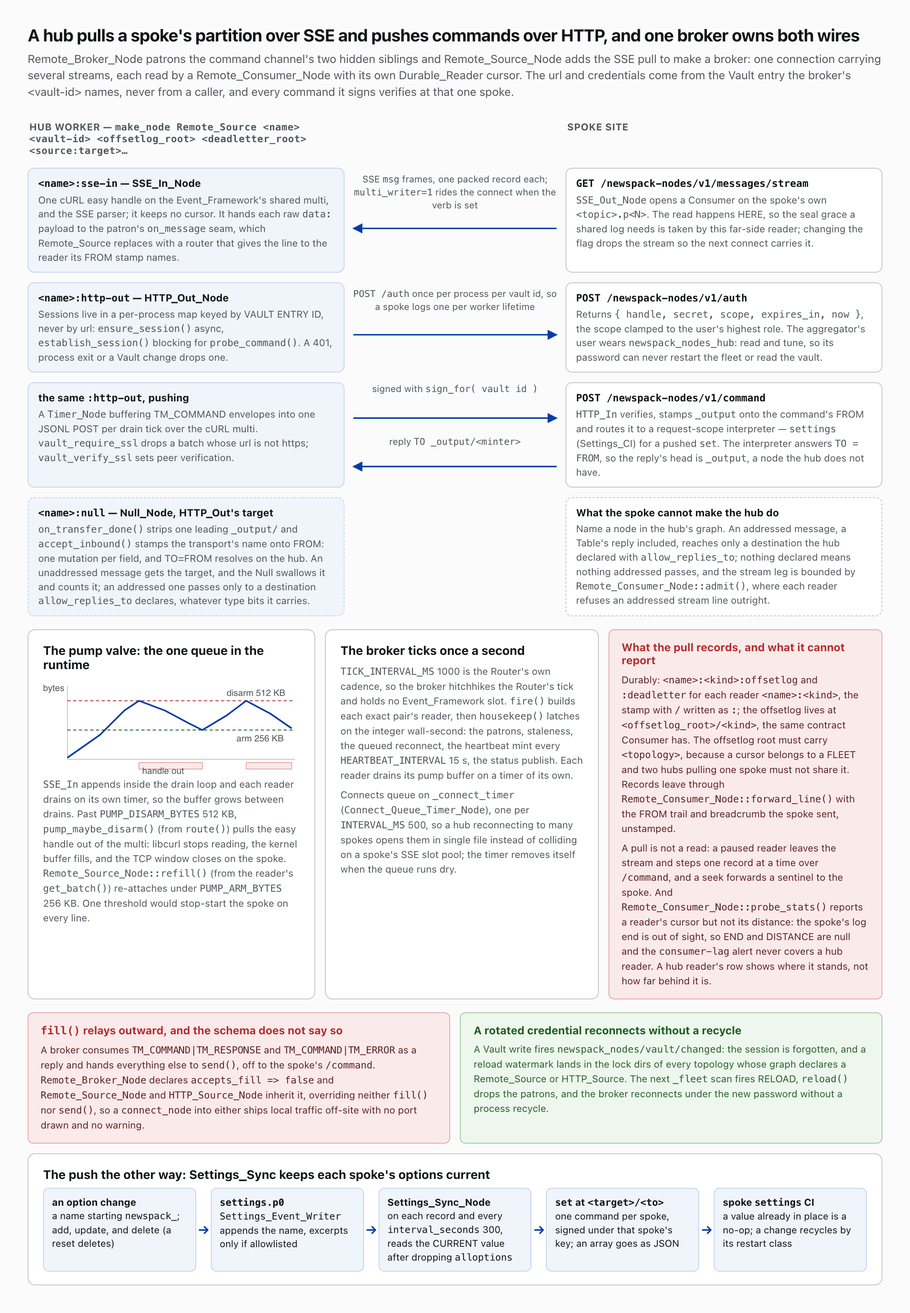
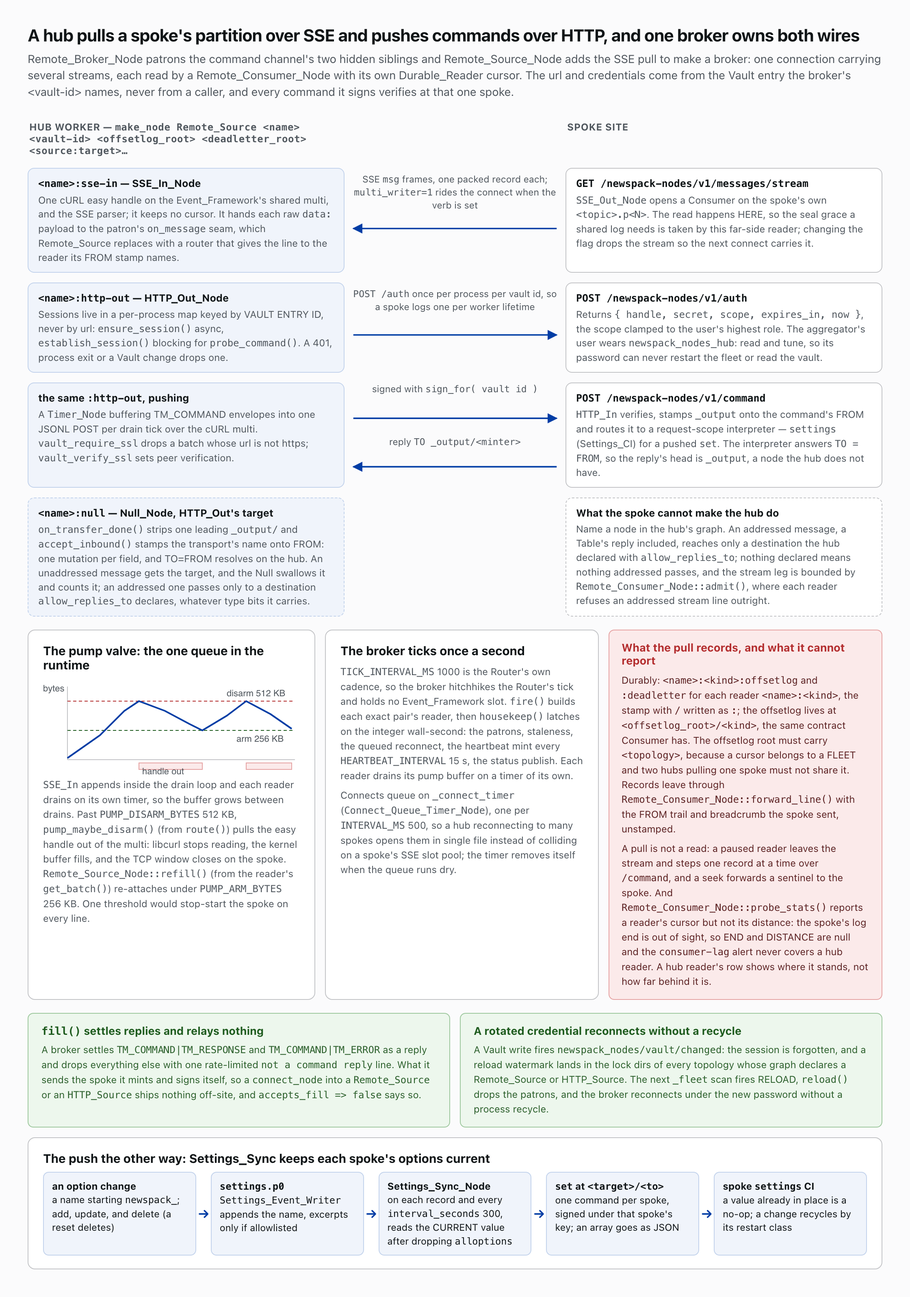
refactor(remote): a broker relays nothing
Remote_Broker_Node::fill() handed anything but a command reply to send(),
which filled the patron HTTP_Out verbatim. No production code sent a
broker anything but a reply, and what the relay did send left unsigned,
so the spoke refused it. fill() drops it through drop_message(), and
send() is gone.

diff --git a/docs/img/ag-hub-spoke.html b/docs/img/ag-hub-spoke.html
@@ -68,9 +68,9 @@
 </div>
 
 <div class="grid3" style="grid-template-columns:1fr 1fr">
-  <div class="callout">
-    <h4><span class="mono">fill()</span> relays outward, and the schema does not say so</h4>
-    <p>A broker consumes <span class="mono">TM_COMMAND|TM_RESPONSE</span> and <span class="mono">TM_COMMAND|TM_ERROR</span> as a reply and hands everything else to <span class="mono">send()</span>, off to the spoke's <span class="mono">/command</span>. <span class="mono">Remote_Broker_Node</span> declares <span class="mono">accepts_fill =&gt; false</span> and <span class="mono">Remote_Source_Node</span> and <span class="mono">HTTP_Source_Node</span> inherit it, overriding neither <span class="mono">fill()</span> nor <span class="mono">send()</span>, so a <span class="mono">connect_node</span> into either ships local traffic off-site with no port drawn and no warning.</p>
+  <div class="ok">
+    <h4><span class="mono">fill()</span> settles replies and relays nothing</h4>
+    <p>A broker settles <span class="mono">TM_COMMAND|TM_RESPONSE</span> and <span class="mono">TM_COMMAND|TM_ERROR</span> as a reply and drops everything else with one rate-limited <span class="mono">not a command reply</span> line. What it sends the spoke it mints and signs itself, so a <span class="mono">connect_node</span> into a <span class="mono">Remote_Source</span> or an <span class="mono">HTTP_Source</span> ships nothing off-site, and <span class="mono">accepts_fill =&gt; false</span> says so.</p>
   </div>
   <div class="ok"><h4>A rotated credential reconnects without a recycle</h4><p>A Vault write fires <span class="mono">newspack_nodes/vault/changed</span>: the session is forgotten, and a reload watermark lands in the lock dirs of every topology whose graph declares a Remote_Source or HTTP_Source. The next <span class="mono">_fleet</span> scan fires RELOAD, <span class="mono">reload()</span> drops the patrons, and the broker reconnects under the new password without a process recycle.</p></div>
 </div>

diff --git a/tests/unit/RemoteSourceNodeTest.php b/tests/unit/RemoteSourceNodeTest.php
@@ -1253,7 +1253,7 @@ class RemoteSourceNodeTest extends TestCase {
 
 		// Simulate the spoke's heartbeat reply routed back into fill(). The spoke's
 		// interpreter wraps a command response as TM_COMMAND|TM_RESPONSE; fill()
-		// records the RTT for that type and relays anything else to HTTP_Out.
+		// records the RTT for that type and drops anything else.
 		$reply                   = Message::new_message();
 		$reply[ Message::TYPE ]  = Message::TM_COMMAND | Message::TM_RESPONSE;
 		$reply[ Message::TO ]    = 'remote-austin';
@@ -2037,12 +2037,14 @@ class RemoteSourceNodeTest extends TestCase {
 		$this->assertSame( [], $this->reload_subscribers( $fleet ) );
 	}
 
-	public function test_normal_traffic_is_unchanged_by_subscribing(): void {
-		// Control never touches fill(), so a data message wearing the event name
-		// is relayed verbatim — no discrimination, nothing to get wrong.
+	public function test_a_message_wearing_the_event_name_reloads_nothing(): void {
+		// Control never touches fill(): a data message keyed RELOAD is dropped
+		// like any other non-reply, and the channel it would reload stands.
 		$fleet = $this->mount_fleet();
 		$this->seed_austin();
-		$node = $this->broker( 'remote-austin' );
+		$this->stub_sse_connect();
+		[ $node ] = $this->make_remote( 'remote-austin' );
+		$http     = Core::node( 'remote-austin:http-out' );
 		$this->assertSame( [ 'remote-austin' ], $this->reload_subscribers( $fleet ) );
 
 		$m                   = Message::new_message();
@@ -2051,10 +2053,8 @@ class RemoteSourceNodeTest extends TestCase {
 		$m[ Message::VALUE ] = 'ledger-line-4471';
 		$node->fill( $m );
 
-		$batch = $this->read_private( Core::node( 'remote-austin:http-out' ), 'batch' );
-		$this->assertCount( 1, $batch );
-		$this->assertSame( 'ledger-line-4471', $batch[0][ Message::VALUE ] );
-		$this->assertSame( 'RELOAD', $batch[0][ Message::KEY ] );
+		$this->assertSame( $http, Core::node( 'remote-austin:http-out' ), 'the channel was not reloaded' );
+		$this->assertSame( [], $this->read_private( $http, 'batch' ) );
 	}
 
 	public function test_vault_entry_without_url_stays_disconnected(): void {
@@ -2070,12 +2070,14 @@ class RemoteSourceNodeTest extends TestCase {
 	/** A Vault entry removed after the channel stood leaves the stream unbuilt and says why. */
 	public function test_an_entry_gone_after_the_channel_stays_disconnected(): void {
 		$this->seed_austin();
-		$node                = $this->broker( 'remote-austin' );
-		$m                   = Message::new_message();
-		$m[ Message::TYPE ]  = Message::TM_BYTESTREAM;
-		$m[ Message::VALUE ] = 'payload-3381';
-		$node->fill( $m );
-		$this->assertInstanceOf( HTTP_Out_Node::class, Core::node( 'remote-austin:http-out' ), 'precondition: the channel stands' );
+		$this->stub_sse_connect();
+		[ $node, $reader ] = $this->make_remote( 'remote-austin' );
+		$reader->pause();
+		$node->reload();
+		$reader->step();
+		$this->assertInstanceOf( HTTP_Out_Node::class, Core::node( 'remote-austin:http-out' ), 'precondition: the step built the channel' );
+		$this->assertNull( Core::node( 'remote-austin:sse-in' ), 'precondition: and the channel alone' );
+		$reader->play();
 		\update_option( Vault::OPTION_KEY, [] );
 		Vault::get_instance()->reset_cache();
 		$log = $this->capture_stderr();
@@ -2087,18 +2089,29 @@ class RemoteSourceNodeTest extends TestCase {
 		$this->assertStringContainsString( 'no Vault entry; staying disconnected', \implode( '', $log->getArrayCopy() ) );
 	}
 
-	public function test_fill_relays_non_command_message_through_http_out(): void {
+	/**
+	 * A broker settles its own replies and relays nothing: a message the spoke
+	 * addresses to it by name is dropped, said once, and never goes back out.
+	 */
+	public function test_fill_drops_a_non_reply_rather_than_relaying_it(): void {
 		$this->seed_austin();
-		$node = $this->broker( 'remote-austin' );
+		$this->stub_sse_connect();
+		[ $node ] = $this->make_remote( 'remote-austin' );
+		$http     = Core::node( 'remote-austin:http-out' );
+		$this->assertInstanceOf( HTTP_Out_Node::class, $http, 'precondition: the channel stands' );
+		$log = $this->capture_stderr();
 
 		$m                   = Message::new_message();
-		$m[ Message::TYPE ]  = Message::TM_BYTESTREAM;
+		$m[ Message::TYPE ]  = Message::TM_INFO;
+		$m[ Message::FROM ]  = 'spoke-trail-6620';
+		$m[ Message::TO ]    = 'remote-austin';
 		$m[ Message::VALUE ] = 'payload-6620';
 		$node->fill( $m );
 
-		$batch = $this->read_private( Core::node( 'remote-austin:http-out' ), 'batch' );
-		$this->assertCount( 1, $batch );
-		$this->assertSame( 'payload-6620', $batch[0][ Message::VALUE ] );
+		$this->assertSame( [], $this->read_private( $http, 'batch' ), 'nothing is relayed to the spoke' );
+		$said = \implode( '', $log->getArrayCopy() );
+		$this->assertStringContainsString( 'WARNING: not a command reply', $said );
+		$this->assertStringContainsString( 'from: spoke-trail-6620', $said );
 	}
 
 	public function test_fill_command_response_is_reply_not_relayed(): void {
@@ -2435,9 +2448,9 @@ class RemoteSourceNodeTest extends TestCase {
 	/**
 	 * HTTP_Out's wire-inbound clause is armed only once a target is set, and the
 	 * arm worth having is the refusal of a non-response the spoke addressed at
-	 * our graph. The target is a Null sibling, not the broker: the broker's
-	 * fill() relays whatever it is handed, so stamping traffic back onto it
-	 * would send the spoke's own output straight back to the spoke.
+	 * our graph. The target is a Null sibling, not the broker, whose fill()
+	 * takes command replies alone: the spoke's unaddressed output is counted
+	 * and discarded there.
 	 */
 	public function test_the_egress_targets_a_null_sibling(): void {
 		$this->seed_austin();

diff --git a/includes/class-remote-broker-node.php b/includes/class-remote-broker-node.php
@@ -177,10 +177,8 @@ abstract class Remote_Broker_Node extends Timer_Node {
 	 * argument, and stays `reload()`'s job.
 	 *
 	 * The fleet's RELOAD reaches `reload()` through a closure, not a name
-	 * registration: `fill()` relays anything it does not recognize OUT to a
-	 * remote spoke, so control dispatched by name would ride the one entry
-	 * point whose fall-through is a third party. A closure mints no message,
-	 * and its identity is its provenance.
+	 * registration: `fill()` drops anything but a command reply, and a
+	 * closure mints no message, so its identity is its provenance.
 	 *
 	 * A reader no pair matches any more hands its cursor off and is
 	 * retracted; each survivor takes its owning pair's target, and its dirs
@@ -233,7 +231,8 @@ abstract class Remote_Broker_Node extends Timer_Node {
 	/**
 	 * Inbound message. A command reply (TM_COMMAND|TM_RESPONSE / |TM_ERROR)
 	 * routed back from the spoke settles through `settle_reply()`; anything
-	 * else is a command to send().
+	 * else is dropped, rate-limited, because a broker relays nothing: what it
+	 * sends the spoke it mints and signs itself.
 	 *
 	 * @api Dynamic entrypoint.
 	 * @param array<int,mixed> $message The 7-field positional message array.
@@ -246,7 +245,8 @@ abstract class Remote_Broker_Node extends Timer_Node {
 			$this->settle_reply( $message );
 			return;
 		}
-		$this->send( $message );
+		// Constant: drop_message keys its throttle on the reason.
+		$this->drop_message( $message, 'not a command reply' );
 	}
 
 	/**
@@ -467,15 +467,6 @@ abstract class Remote_Broker_Node extends Timer_Node {
 	abstract protected function settle_reply( array $message ): void;
 
 	/**
-	 * Default send: relay the message out through the patron HTTP_Out.
-	 *
-	 * @param array<int,mixed> $message The 7-field positional message array.
-	 */
-	protected function send( array $message ): void {
-		$this->ensure_channel()?->fill( $message );
-	}
-
-	/**
 	 * Send one reader's read to the spoke's `raw-logs` service, FROM the
 	 * reader's own name, so the reply returns to it by TO through HTTP_Out
 	 * (whose allowlist names every reader) and `_router`. A spoke this broker
@@ -513,7 +504,7 @@ abstract class Remote_Broker_Node extends Timer_Node {
 		$http->patron( $this );
 		$http->arguments( [ $this->vault_id ] );
 		$http->sink( $this->sink );
-		// Arms HTTP_Out's wire-inbound clause; a Null, since the broker relays.
+		// Arms HTTP_Out's wire-inbound clause; unaddressed traffic ends here.
 		$null = new Null_Node();
 		$null->patron( $this );
 		$this->http_out  = $http;

diff --git a/tests/unit/RemoteConsumerNodeTest.php b/tests/unit/RemoteConsumerNodeTest.php
@@ -2329,10 +2329,8 @@ class RemoteConsumerNodeTest extends TestCase {
 
 		$this->assertSame( $node, Core::node( 'remote-quoll:firehose.p0' ) );
 		$this->assertSame( 'remote-quoll:firehose.p0:offsetlog', $this->read_private( $node, 'offsetlog' )->name() );
-		$m                   = Message::new_message();
-		$m[ Message::TYPE ]  = Message::TM_BYTESTREAM;
-		$m[ Message::VALUE ] = 'nudge-7720';
-		$broker->fill( $m );
+		$node->pause();
+		$node->step();
 		$delivered = $this->answer_through( Core::node( 'remote-quoll:http-out' ), self::step_reply( 'remote-quoll:firehose.p0', [], 0, 0 ) );
 		$this->assertSame( [ 'remote-quoll:firehose.p0' ], \array_column( $delivered, Message::TO ) );
 	}

diff --git a/CHANGELOG.md b/CHANGELOG.md
@@ -18,7 +18,7 @@ and this project adheres to [Semantic Versioning](https://semver.org/spec/v2.0.0
 
 - **The broker status snapshot names its round trip `last_response` and `last_rtt`.** They replace `last_heartbeat_response` and `last_heartbeat_rtt`, with no alias, because a broker that sends no heartbeat writes the same keys from its fetches. The Aggregator Status tab reads the new names, labels the row "Round trip" in place of "Client HB", and styles it with `aggregator-rtt` and `aggregator-response-badge`.
 - **A multi-writer reader holds a segment boundary until `SEAL_GRACE_SECONDS` have passed since the later of the segment's last write and the next segment's first record.** Both are read from disk, the mtime and the first record's TIMESTAMP, so a fresh reader judges the boundary as a long-lived one does, and it holds while the next segment is still empty.
-- **`Remote_Broker_Node` is the abstract base of every broker.** It holds a spoke's command channel (`HTTP_Out` and the `:null` sink), the `<source>:<target>` pairs, the readers they claim and the status snapshot; `Remote_Source_Node` extends it with the SSE connection, the slot heartbeat and the connect queue. `Topology_Analyzer`, `Aggregator_CI` and the Vault reload recognize a broker by the base, and `Restart_Planner` takes a Node class-string, abstract or not, beside a node-type token. A reader sends its step through `send_read()` and reopens its broker's feed through `refill()`; `Remote_Consumer_Node::STEP_SERVICE` is `RAW_LOGS_SERVICE`. A paused reader's step, or a command filled into a broker, builds the command channel alone, no longer an idle `:sse-in` beside it. A pair refusal names the broker class that refused it. The broker rides the Router's tick, once a second. A broker asks for a command session on its phase second or the one after, so a late Router tick no longer pushes the ask a whole cadence out. `Remote_Broker_Node::BLANK_STATUS` declares the status snapshot's one key set, and each broker writes only the keys it fills. Dropping a broker's channel, as a Vault reload does, voids each reader's step or fetch in flight, so it goes again on the reader's next poll rather than waiting out `REQUEST_TIMEOUT`; steps still owed stay owed.
+- **`Remote_Broker_Node` is the abstract base of every broker.** It holds a spoke's command channel (`HTTP_Out` and the `:null` sink), the `<source>:<target>` pairs, the readers they claim and the status snapshot; `Remote_Source_Node` extends it with the SSE connection, the slot heartbeat and the connect queue. `Topology_Analyzer`, `Aggregator_CI` and the Vault reload recognize a broker by the base, and `Restart_Planner` takes a Node class-string, abstract or not, beside a node-type token. A reader sends its step through `send_read()` and reopens its broker's feed through `refill()`; `Remote_Consumer_Node::STEP_SERVICE` is `RAW_LOGS_SERVICE`. A paused reader's step builds the command channel alone, no longer an idle `:sse-in` beside it. A pair refusal names the broker class that refused it. The broker rides the Router's tick, once a second. A broker asks for a command session on its phase second or the one after, so a late Router tick no longer pushes the ask a whole cadence out. `Remote_Broker_Node::BLANK_STATUS` declares the status snapshot's one key set, and each broker writes only the keys it fills. Dropping a broker's channel, as a Vault reload does, voids each reader's step or fetch in flight, so it goes again on the reader's next poll rather than waiting out `REQUEST_TIMEOUT`; steps still owed stay owed.
 - **The `wp nodes cli` REPL arms its Router's tick, in bare and attached mode.** Timers of a second or more now fire there, so a broker, a Table purge, a Probe and a Timer made in the REPL run as they do in a worker.
 - **The topology console reads a broker as any class whose schema declares the variadic `pairs` argument.** An `HTTP_Source`, and a `Vault_Group` of them, draws one `pair` edge per pair as a `Remote_Source` does; the console no longer names a class.
 - **ADR-31 covers both ways a broker learns a stamp**: the remote sends it, or `list_logs` lists it. ADR-32 names `HTTP_Source_Node`'s catalog ask among the senders a bounce would reach.
@@ -26,12 +26,13 @@ and this project adheres to [Semantic Versioning](https://semver.org/spec/v2.0.0
 ### Removed
 
 - **`Remote_Source_Node`'s status snapshot drops `last_heartbeat_sent`.** Nothing read it; the heartbeat's send time stays the private clock its gate and round trip read.
+- **A broker relays nothing, and `Remote_Broker_Node::send()` is gone.** `fill()` settles a command reply and drops anything else through `drop_message()`, one rate-limited `not a command reply` line, where it handed it to `send()`, which filled the patron `HTTP_Out` verbatim. No production code sent a broker anything but a reply, and what the relay did send left unsigned, so the spoke refused it. A bare `TM_ERROR` the spoke's Router bounces to a broker is dropped the same way rather than posted back.
 - **`Remote_Link_Node` is gone, with no alias.** No topology named it; its channel lives in `Remote_Broker_Node` and its stream in `Remote_Source_Node`. The bare link's `connect()`, `close()`, `remote_partition` argument and its delivery path (`deliver_downstream()`, `admit_inbound()`, `admit_addressed()`) go with it.
 
 ### Fixed
 
-- **`Remote_Source_Node` reports `last_rtt` in milliseconds, as the Aggregator Status tab reads it.** It wrote whole seconds, so a one-second heartbeat round trip rendered as `1.0ms` and graded green. The heartbeat's send time now keeps its fraction of a second, and both brokers round through `Remote_Broker_Node::round_trip_ms()`, to the hundredth of a millisecond, and bound a refusal's reason through `failure_reason()`; `last_response` stays a whole wall-second.
 - **A crawling Consumer no longer drops buffered lines when its segment rolls.** Crawl drains one line a tick but refills every tick, so once a segment was wholly buffered and the next existed, `get_batch()` rolled to it and cleared complete lines it had not drained: records `a`, `b` and `c` in one segment and `d` in the next delivered `a` and `d`. The roll now waits while the buffer holds a complete line, and clears only a torn tail, which still counts as consumed. A `Tail` reads through the same path. Line mode and batch mode never refill with a line buffered, and neither `File_Tail`, which never crawls, nor a broker's reader rolls a segment here.
+- **`Remote_Source_Node` reports `last_rtt` in milliseconds, as the Aggregator Status tab reads it.** It wrote whole seconds, so a one-second heartbeat round trip rendered as `1.0ms` and graded green. The heartbeat's send time now keeps its fraction of a second, and both brokers round through `Remote_Broker_Node::round_trip_ms()`, to the hundredth of a millisecond, and bound a refusal's reason through `failure_reason()`; `last_response` stays a whole wall-second.
 
 ## [2.103.3] - 2026-10-09
 

diff --git a/docs/architecture-guide.md b/docs/architecture-guide.md
@@ -504,7 +504,7 @@ That chain carries no rate limiting: `Node::stderr()` is the unthrottled path, w
 
 The pair is round-trippable for an ARRAY VALUE alone, and both ways it can fail silently. `Struct_To_JSON_Node` gates on the TM_STRUCT bit and never on the VALUE's shape, so a VALUE that is already a string is adopted verbatim rather than JSON-quoted — quoting it would hand the read side a JSON string where TM_STRUCT promises an array — and the bare unquoted line it writes decodes back to null, which `JSON_To_Struct_Node` forwards untouched as a bytestream. The encode itself can also fail: `wp_json_encode` is called with `JSON_UNESCAPED_SLASHES` alone, without the `JSON_INVALID_UTF8_SUBSTITUTE` that `Grep_Node` passes, so invalid UTF-8 in the VALUE or a structure past the depth limit returns false, VALUE and TYPE are left alone, and the still-TM_STRUCT message forwards with no warning, no `drop_message()` and no counter. Downstream that reads as a blank record, because `Log_Node::serialize_record()` runs an array through `Core::as_string()`, which yields `''` — so a topology that HAS the splice and still writes empty records is a failed encode, not a missing one. A producer emitting TM_STRUCT with a non-array VALUE is the violation to fix upstream.
 
-![A hub worker's Remote_Source broker, its three siblings and the reader it builds for each stream, wired to a spoke's three endpoints: sse-in pulls /messages/stream, and http-out mints a session at /auth and pushes signed commands to /command, whose replies come back addressed _output/<minter> and are stripped and re-stamped, while anything unaddressed lands on the null sibling and anything addressed passes only to a destination allow_replies_to declares. Cards show the 512 KB and 256 KB pump valve that closes the spoke's TCP window, the once-a-second broker tick and single-file connect queue, what a pull records and cannot report, fill() relaying outward, credential rotation by reload watermark, and Settings_Sync pushing current option values to each spoke.](img/ag-hub-spoke.png)
+![A hub worker's Remote_Source broker, its three siblings and the reader it builds for each stream, wired to a spoke's three endpoints: sse-in pulls /messages/stream, and http-out mints a session at /auth and pushes signed commands to /command, whose replies come back addressed _output/<minter> and are stripped and re-stamped, while anything unaddressed lands on the null sibling and anything addressed passes only to a destination allow_replies_to declares. Cards show the 512 KB and 256 KB pump valve that closes the spoke's TCP window, the once-a-second broker tick and single-file connect queue, what a pull records and cannot report, fill() settling replies and relaying nothing, credential rotation by reload watermark, and Settings_Sync pushing current option values to each spoke.](img/ag-hub-spoke.png)
 
 **Remote reader family (SSE-pull and block-fetch aggregation).** [`Remote_Source_Node`](../includes/class-remote-source-node.php) is a broker: one connection to a spoke carries every stream its pairs name, and each stream is read by its own [`Remote_Consumer_Node`](../includes/class-remote-consumer-node.php). The broker extends [`Remote_Broker_Node`](../includes/class-remote-broker-node.php), the base every broker shares (the [`HTTP_Out_Node`](../includes/class-http-out-node.php) command channel and its Null sink, the pairs, the readers and the status snapshot), and adds an `SSE_In_Node` patron, heartbeat, reconnect and the routing between the patrons and the readers. `SSE_In` hands each raw `msg` payload to the broker's `route()`, which reads the line's FROM stamp and gives the line to the reader the first matching pair owns, building that reader on first sight; a line no pair matches is dropped with a rate-limited error. A reader `use`s the same `Durable_Reader` trait Consumer does, so each line appends to its pump buffer and the tick drains it exactly like a Consumer, with the same durable offsetlog cursor, time travel, and dead-letter/crash lifecycle ([ADR-12](architecture-decisions.md#adr-12-dead-letter-poison--crash-lifecycle)). Only two seams differ on the message path: the refill is pushed rather than read, and the cursor comes from each message's own breadcrumb rather than the local buffer chop. One valve meters the whole connection, on the bytes every reader holds. `SSE_In` keeps no cursor: at each connect the broker states the subscriptions and, for each live reader, where its stream stands. Time travel diverges further, because a pull is not a read. A paused reader leaves the stream: the broker reconnects without it, once for every reader that pauses in one tick, and `step` reads one record from the spoke through `raw-logs read_message` over `HTTP_Out`, the reply returning addressed to the reader's own name. A step reply that lands after `play` is ignored, so the live stream is not doubled. A seek forwards a bare sentinel to the spoke instead of resolving it here; the spoke's `connected` handshake then names, in CURSORS, where the new stream begins, or the first record's breadcrumb does, and the reader adopts that position. With no live reader and no glob pair the broker holds no connection. Credentials and URL come from the [`Vault`](../includes/class-vault.php) entry the node's `<vault-id>` argument names; a missing entry leaves it disconnected rather than building mis-configured patrons. [`HTTP_Source_Node`](../includes/class-http-source-node.php) is the other broker. It takes the same arguments, holds no slot from the spoke's SSE pool and sends no heartbeat: each reader asks `raw-logs read_block` for a block of up to 1 MiB over the broker's one `HTTP_Out`, asks again at once while a block fills, and waits five seconds at the end of the log, and a glob pair learns its stamps from the spoke's `raw-logs list_logs` catalog. These are the cURL-driven nodes that register handles with the drain loop (see [Event_Framework](#event_framework)).
 

diff --git a/docs/security-model.md b/docs/security-model.md
@@ -30,7 +30,7 @@ A holder of `manage` is administrator power by another name and is not treated a
 
 ## The hub/spoke trust boundary
 
-**Code:** [`includes/class-http-out-node.php`](../includes/class-http-out-node.php): [`accept_inbound()`](../includes/class-http-out-node.php#L400), [`admit_addressed()`](../includes/class-http-out-node.php#L611), [`allow_replies_to()`](../includes/class-http-out-node.php#L696), [`$reply_allowlist`](../includes/class-http-out-node.php#L87); [`includes/class-router-node.php`](../includes/class-router-node.php): `fill()`; [`includes/class-remote-broker-node.php`](../includes/class-remote-broker-node.php): [`address_null_sink()`](../includes/class-remote-broker-node.php#L653); [`includes/class-remote-consumer-node.php`](../includes/class-remote-consumer-node.php): [`forward_line()`](../includes/class-remote-consumer-node.php#L480), [`admit()`](../includes/class-remote-consumer-node.php#L521); [`topologies/settings-sync.tsl`](../topologies/settings-sync.tsl); [ADR-7](architecture-decisions.md#adr-7-sink-vs-target-and-tofrom-replies).
+**Code:** [`includes/class-http-out-node.php`](../includes/class-http-out-node.php): [`accept_inbound()`](../includes/class-http-out-node.php#L400), [`admit_addressed()`](../includes/class-http-out-node.php#L611), [`allow_replies_to()`](../includes/class-http-out-node.php#L696), [`$reply_allowlist`](../includes/class-http-out-node.php#L87); [`includes/class-router-node.php`](../includes/class-router-node.php): `fill()`; [`includes/class-remote-broker-node.php`](../includes/class-remote-broker-node.php): [`address_null_sink()`](../includes/class-remote-broker-node.php#L663); [`includes/class-remote-consumer-node.php`](../includes/class-remote-consumer-node.php): [`forward_line()`](../includes/class-remote-consumer-node.php#L480), [`admit()`](../includes/class-remote-consumer-node.php#L521); [`topologies/settings-sync.tsl`](../topologies/settings-sync.tsl); [ADR-7](architecture-decisions.md#adr-7-sink-vs-target-and-tofrom-replies).
 
 **The reply gate.** The spoke writes every field of a reply, `TO` included, and each `HTTP_Out` node's `allow_replies_to` list decides what the hub delivers. `accept_inbound()` hands each addressed reply to `admit_addressed()`, which tests its `TO` against `$reply_allowlist`, filled by the `allow_replies_to` config verb, and drops a reply addressed outside it. The list fails closed: an `HTTP_Out` with no declaration delivers no reply at all. `Remote_Broker_Node::address_null_sink()` gives a spoke's unaddressed output a `Null` target, so it lands nowhere rather than travelling on as it stands. `topologies/settings-sync.tsl` shows the declaration shape, one `cmd <egress>:config allow_replies_to settings-sync` per spoke egress. The logger's [hub and spoke wiring](https://github.com/Automattic/newspack-event-logger-nodes/blob/main/docs/architecture-guide.md#hub-vs-spoke-topology) mounts these nodes.
 
@@ -47,11 +47,11 @@ An accepted `TO` reaches any node's `fill()` in the hub worker's process; the fo
 | Effect | Classes in the hub process | What a spoke-authored message does |
 |---|---|---|
 | **Appends it** | `Partition` (each spoke's offsetlog and deadletter, the firehose partitions behind `Topic`, the `topicprobe` log); `Log`, VALUE bytes only | Writes it, size-capped. **An offsetlog's last frame is where that spoke's reader resumes**, so a forged frame moves the hub's read position: the gate exists for this. |
-| **Sends it outward** | `HTTP_Out` (per spoke and per settings egress), `Remote_Source`, `HTTP_Source` | Batches it to the spoke the node fronts, a relay whose ingress applies this same table. |
+| **Sends it outward** | `HTTP_Out` (per spoke and per settings egress) | Batches it to the spoke the node fronts, a relay whose ingress applies this same table. |
 | **Stages configuration** | `Settings_Sync` | Re-sends one registered option to its registered destination. |
 | | `Discovery_Collector` | Adds hook and event names, through `sanitize_text_field`, to the hub-wide lists the rule editor offers, 10,000 per list. |
 | **Interprets it** | `Command_Interpreter` | HMAC-verifies a command with empty `TO`; an unsigned one draws a `TM_ERROR` reply back along `FROM`. Forwards anything else. |
-| **Forwards, filters or discards** | `Null`, `SSE_In`, `Callback` (discard); `Remote_Job_Rewrite`, `Echo`, `Tee`, `Tap`, `Grep`, `Age_Sieve`, `Value_Timeout`, `JSON_To_Struct`, `Struct_To_JSON`, `Lock`; `Topic_Probe`, `Fleet` and `Consumer`, which have no `fill()` and take the base forward | Re-addresses or drops, then returns it to the router and this table. The base forward fills an emptied `TO` from the node's default, so a message addressed to `topicprobe` lands in the probe log. |
+| **Forwards, filters or discards** | `Null`, `SSE_In`, `Callback`, and `Remote_Source` and `HTTP_Source` past the command reply each settles (discard); `Remote_Job_Rewrite`, `Echo`, `Tee`, `Tap`, `Grep`, `Age_Sieve`, `Value_Timeout`, `JSON_To_Struct`, `Struct_To_JSON`, `Lock`; `Topic_Probe`, `Fleet` and `Consumer`, which have no `fill()` and take the base forward | Re-addresses or drops, then returns it to the router and this table. The base forward fills an emptied `TO` from the node's default, so a message addressed to `topicprobe` lands in the probe log. |
 | **Not in this process** | `Shell`, `Hook`, `Curl`, `Table`, `Job_Worker`, `Flame_Builder` and its `:auto-tuner`, `Graphite`, `Stdout`, `Stderr`, `Dumper`, `SSE_Out`, `HTTP_In`, `Probe_To_Graphite`, `Request_Builder`, `Job_Router` | Reaches nothing: `Topology_Loader` constructs a `Shell` without registering it, `Table_Node::table()` constructs without naming, and no hub topology makes a `Hook` or a `Curl`, which would fetch the url a spoke wrote. |
 
 `Shell`, which parses text into commands signed with the process key, would matter most; no worker's graph holds it. The `_repl` node a console talks to is a partition.

diff --git a/docs/architecture-decisions.md b/docs/architecture-decisions.md
@@ -2188,11 +2188,10 @@ none of today. The blast radius, sender by sender, with what each does with one 
 - **`Fanout_Targets::send_signed()` from event-logger-nodes' `Discovery_Collector_Node`** (FROM
   the node; `discovery get`). Its `fill()` returns on a payload that is not an array, so the
   string payload is dropped; the next tick probes again. No change needed.
-- **Any message routed to an `HTTP_Out`, or to a broker that relays it to one.**
-  `Remote_Broker_Node::fill()` hands every message that is not a command reply to `send()`,
-  which fills its patron `HTTP_Out` verbatim, FROM untouched; a bare `HTTP_Out` takes whatever
-  a TO path addresses to it. So every node in the graph that can address a broker or an egress
-  is a sender: an operator's Shell (`wp nodes cli` attached to a hub worker, FROM
+- **Any message routed to an `HTTP_Out`.** A bare `HTTP_Out` takes whatever a TO path
+  addresses to it, FROM untouched; a broker relays nothing, because `Remote_Broker_Node::fill()`
+  drops every message that is not a command reply. So every node in the graph that can address
+  an egress is a sender: an operator's Shell (`wp nodes cli` attached to a hub worker, FROM
   `_output/_cli:<pid>/_output`), a `cmd` or `command_node` aimed past an egress, a dashboard
   command routed through the hub, an application node targeting one. Today a lost POST
   answers none of them; under the proposal each gets a TM_ERROR at its FROM, which a Shell

diff --git a/docs/upgrading.md b/docs/upgrading.md
@@ -33,6 +33,13 @@ Breaking changes that affect a plugin built on the substrate — topology files,
   removed, the heartbeat's send time being `Remote_Source_Node`'s private clock;
   and `Remote_Consumer_Node::broker()` takes a `Remote_Broker_Node`, no longer
   a `Remote_Source_Node`.
+- **A broker relays nothing; `Remote_Broker_Node::send()` is removed.** It
+  was protected, and `fill()` handed it every message but a command reply,
+  to post through the patron `HTTP_Out` unsigned. `fill()` now drops such a
+  message with a rate-limited `not a command reply` line. A subclass that
+  overrode `send()` has nothing to override, and code that filled a broker to
+  reach its spoke mints a signed command through the broker's channel
+  instead, as `send_read()` does.
 - **The broker status keys are renamed.** `last_heartbeat_response` is
   `last_response` and `last_heartbeat_rtt` is `last_rtt`. `last_heartbeat_sent`
   is removed, and the Aggregator CSS classes follow: `aggregator-heartbeat-rtt`
